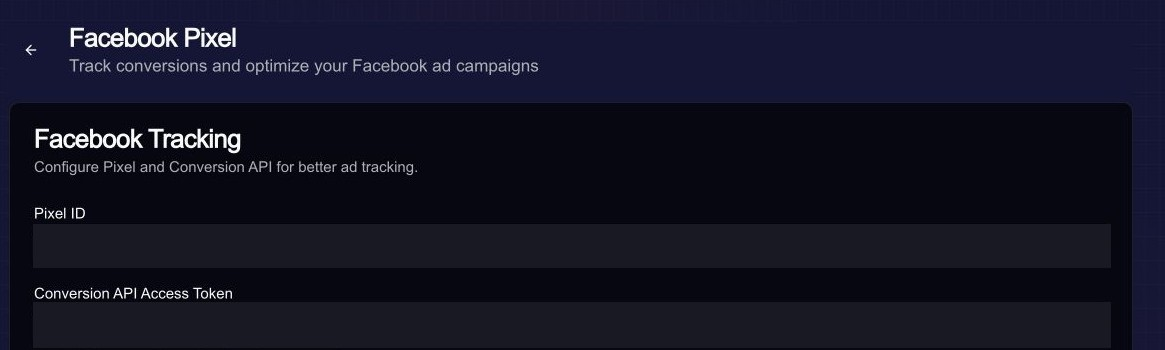
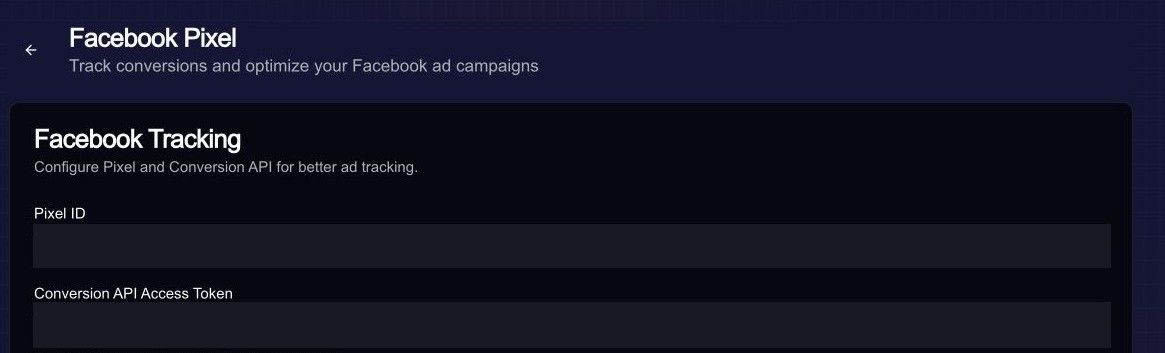
Show complete Meta token field in guide

diff --git a/apps/web/src/components/analytics/ad-platform-setup-guide.test.tsx b/apps/web/src/components/analytics/ad-platform-setup-guide.test.tsx
@@ -9,7 +9,7 @@ import { AdPlatformSetupGuide } from './ad-platform-setup-guide';
 // Digests detect changed binaries; they do not validate that a mask is present.
 const pinnedAssetDigests: Record<string, string> = {
   '/guides/ad-platforms/meta-settings.jpg':
[2 lines of base64/hex data omitted]
   '/guides/ad-platforms/tiktok-settings.jpg':
[1 lines of base64/hex data omitted]
   '/guides/ad-platforms/snapchat-pixel-settings.jpg':

diff --git a/apps/web/src/components/analytics/ad-platform-setup-guide.tsx b/apps/web/src/components/analytics/ad-platform-setup-guide.tsx
@@ -35,7 +35,7 @@ const guides: Record<AdPlatform, Guide> = {
         src: '/guides/ad-platforms/meta-settings.jpg',
         alt: 'Meta Pixel and Conversions API settings in Baci with identifiers masked',
         width: 1165,
-        height: 350,
+        height: 353,
       },
     ],
     steps: [
